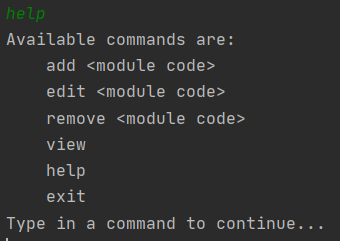
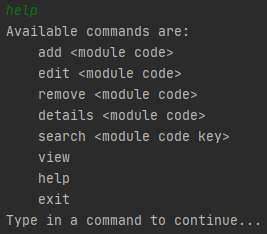
Updated UG for acadplan v2.0 features: 'details' and 'search', + a few minor edits. 1) Added documentation for 'details' and 'search' commands 2) Updated screenshots for 'acadplan' and 'help' commands 3) Fixed whitespace and typos TODO: update toc to include 'details' and 'search' commands

diff --git a/docs/UserGuide.md b/docs/UserGuide.md
@@ -16,23 +16,28 @@ PlanNUS is a __desktop application for planning academic journey__ with modules 
 1. Go to the directory where the jar file is saved at.
 1. Enter the following command `java -jar PlanNus.jar`
 
+  
+
 ## Features 
 
 PlanNUS has two separate commands at the main page where the users can either choose to have an outlook of their potential academic journey or calculate their CAP. For each of these commands, there are more specific functions for configuration of user's desired choices.
 
-<img src="images/Main_Page_Features.png" width = "350" height = "80" />
+<img src="images/Main_Page_Features.png" width = "350" height = "80" />  
+
+
+
 
 ### Academic Calendar Planner: `acadplan`
 Directs user to the page where he/she can plan a personalized academic journey in NUS by using `add`, `remove` , `view` or `edit` features as shown below.
 
-<img src="images/acadplan_features.png" width = "320" height = "220" />
+<img src="images/acadplan_features.png" width = "320" height = "300" />
 
-Input format: `acadplan`
+Input format: `acadplan`    
+    
 
 #### Adding a module into the calendar: `add`
 
 Input format: `add <module code>`
-
 
 **Example of proper usage:**
 
@@ -46,8 +51,9 @@ Upon entering the desired module, user will be prompted to enter the semester wh
 __<ins>Caution</ins>:__ 
 
 * Invalid module codes (i.e. Modules not offered by NUS) cannot be added into the calendar
-* Duplicate module codes cannot be added into the calendar as well
-
+* Duplicate module codes cannot be added into the calendar as well  
+  
+  
 #### Removing an existing module in the calendar: `remove`
 
 Input format: `remove <module code>`
@@ -62,7 +68,8 @@ Example of usage:
 __<ins>Caution:</ins>__ 
 
 * Only modules that have been added into the calendar can be removed
-
+  
+  
 #### Editing an existing module in the calendar: `edit`
 
 Input format: `edit <module code>`
@@ -87,7 +94,47 @@ Expected output when user wishes to change the _Grade_.
 __<ins>Caution:</ins>__ 
 
 * Only modules that have been added into the calendar can be edited
+  
+  
+#### Viewing the details of a module: `details`
 
+Input format: `details <module code>`
+
+Example of usage:
+
+* `details CS2101`
+* `DETAILS cs2113t`
+
+<img src="images/acadplan_details.PNG" width = "800"/>
+
+As shown in the image, users can input the module that they wish to view further details about.
+
+__<ins>Caution:</ins>__ 
+
+* No information will be printed if the module is not offered by NUS.
+  
+  
+#### Searching for module codes containing a keyword: `search`
+
+Input format: `search <module code key>`
+
+Example of usage:
+
+* `search CS21`
+* `SEARCH cg4002`
+
+<img src="images/acadplan_search_part.PNG"/>
+
+<img src="images/acadplan_search_full.PNG"/>
+
+As shown above, users can enter a search key that contains either part of, or the whole module code.
+
+__<ins>Caution:</ins>__ 
+
+* This feature currently only supports searching by module code.
+* Only up to the first 10 results are displayed.
+  
+  
 #### Printing the academic calendar: `view`
 
 Input format: `view`
@@ -104,11 +151,14 @@ Expected output when user wishes to print a specific semester:
 
 <img src="images/acadplan_viewsem.PNG" height = "68" />
 
+
 #### Printing help for academic calendar: `help`
 
 Input format: `help`
 
-<img src="images/acadplan_help.PNG" height = "200" />
+<img src="images/acadplan_help.PNG" height = "250" />
+
+    
 
 ### Cap Calculator: `capcalc`
 
@@ -117,6 +167,7 @@ Directs user to the page where he/she can view the `current` CAP or even `set ta
 <img src="images/capcalc_features.png" height = "180" />
 
 Input format: `capcalc`
+
 
 #### Printing current CAP and MCs taken: `current`
 
@@ -129,7 +180,8 @@ Input format: `current`
 __<ins>Caution:</ins>__
 
 * If there are no modules added, the current CAP and graded MCs are set to 0
-
+  
+  
 #### Set target CAP: `set target`
 
 This is for the user to set a target CAP that he or she wishes to obtain for the next specified graded MCs.
@@ -142,7 +194,8 @@ __<ins>Caution:</ins>__
 
 * CAP should be between 0.00 to 5.00 inclusive.
 * Minimum MC should be greater than 0.
-
+  
+  
 #### Set S/U modules: `set su`
 
 This is for the user to set modules that he or she wishes to S/U.
@@ -150,6 +203,7 @@ This is for the user to set modules that he or she wishes to S/U.
 <img src="images/capcalc_set_su_module.png" height = "100" />
 
 As shown in the image, user can choose to S/U by either a _Semester_ or some selected _Modules_. (__Note:__ Enter either `1` or `2` instead of the component's name)
+
 
 ##### Set S/U by semester
 
@@ -167,20 +221,21 @@ __<ins>Caution:</ins>__
 
 * Only modules that can be S/Ued are added into the S/U list.
 * Modules with special grades are filtered out.
-
+  
+  
 ##### Set S/U by modules
 
 Expected output when user wishes to S/U by _Modules_.
 
 <img src="images/capcalc_set_su_modules.png"  />
 
-User will then be prompte to enter a specific number of modules to S/Ued.
+User will then be prompted to enter a specific number of modules to S/Ued.
 
 Expected output when user entered a valid number of modules.
 
 <img src="images/capcalc_set_su_modules_prompt.png" />
 
-User will then be prompte to enter a serie of module codes to S/Ued.
+User will then be prompted to enter a series of module codes to S/Ued.
 
 Expected output when user entered valid module codes.
 
@@ -190,7 +245,8 @@ __<ins>Caution:</ins>__
 
 * Duplicate modules are not allowed.
 * Number of modules to be S/Ued should not be greater than number of modules taken by the user.
-
+  
+  
 ### Exiting from a feature or PlanNUS: `exit`
 
 This command directs user back to the main page of PlanNUS after they are done using a feature or exits from the entire application itself.
@@ -209,6 +265,7 @@ Last but not least, the expected output for exiting PlanNUS will be as such:
 
 Input format: `exit`
 
+    
 
 ## Loading and Saving 
 
@@ -235,6 +292,8 @@ General | What is a valid semester index? | For the purpose of this planning sof
 General | What is a valid grade? | **Letter Grades**: A+, A, B+, B, B-, C+, C, D+, D, F , **Special Grades**: CS, CU, S, U, W, IC, IP, AUD, WU, EXE, **If you have yet to have a grade for the module**: NT
 General | What is the name of the saved file? | The name of the saved file is `PlanNUS.txt` and can be found at the base of the folder, in the same location as your PlanNUS.jar.
 
+  
+
 ## Command Summary
 
 Note that the following commands are case-insensitive.
@@ -260,6 +319,8 @@ Note that the following commands are case-insensitive.
 | Set target CAP                       | `set target`  |
 | Make the module grade as S/U         | `set SU`      |
 | Exiting the CAP Calculator           | `exit`        |
+
+    
 
 ## Appendix
 
